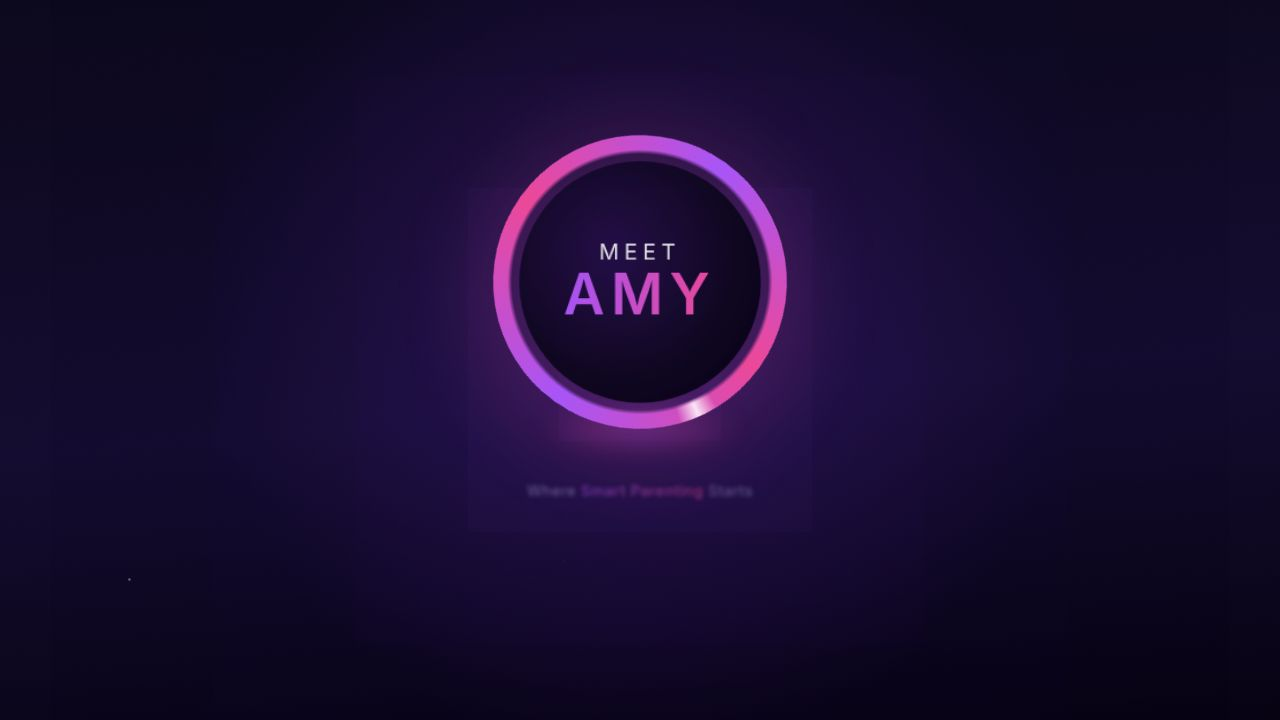
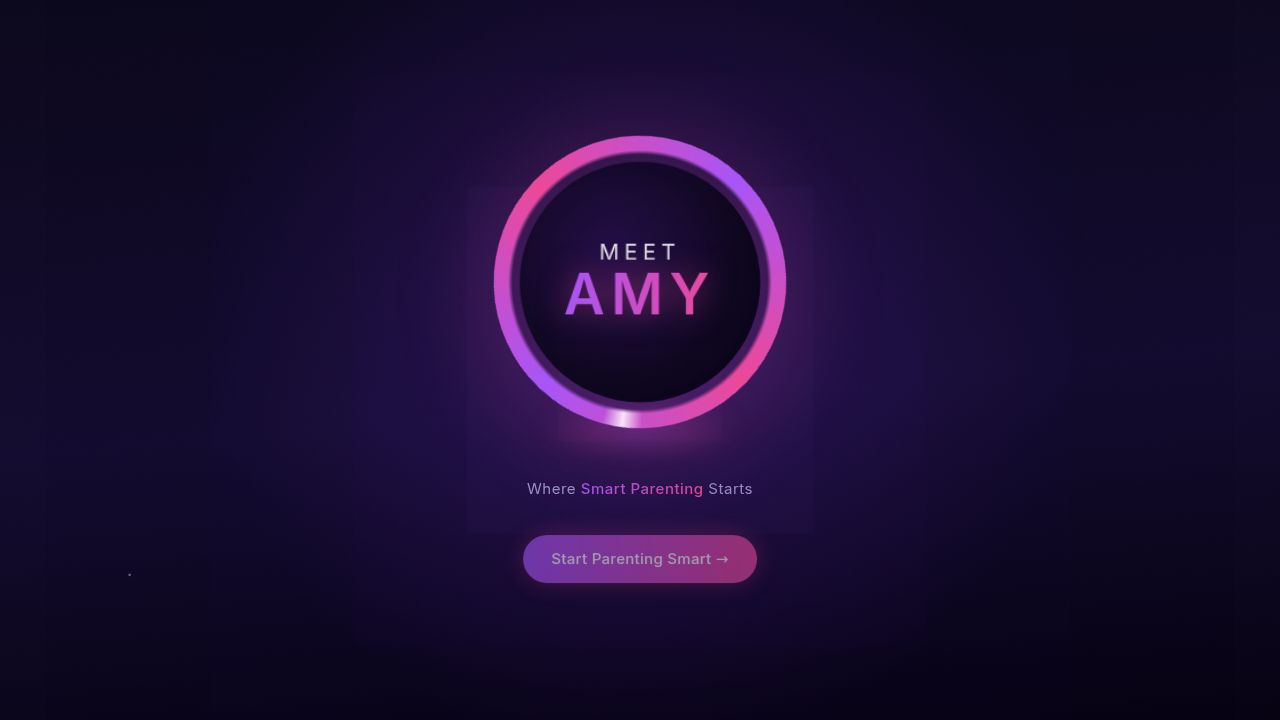
Add first-time onboarding walkthrough + confirm Smart Study Zone v2 complete
## Onboarding Walkthrough (tester request)
- New component: artifacts/kidschedule/src/components/app-walkthrough.tsx
  - 5-step animated overlay tour shown once after first dashboard visit
  - Step 1: Welcome (Amy mascot), Step 2: Routines, Step 3: Parenting Hub,
    Step 4: Amy AI Coach, Step 5: Track Progress
  - localStorage key `amynest_walkthrough_seen` — never shown again after skip/finish
  - Full-screen backdrop with glass card, brand indigo/purple gradients, progress dots
  - All text via t() keys, no hardcoded strings (passes i18n audit)
  - No hardcoded hex colors — uses CSS vars (passes color audit)
  - No third-party library — keeps iOS Safari memory budget safe
- Added "walkthrough" section to artifacts/kidschedule/src/i18n/en.json (27 new keys)
- Mounted <AppWalkthrough /> in artifacts/kidschedule/src/pages/dashboard.tsx

## Smart Study Zone v2 (session plan T001–T005)
- Verified ALL tasks were already fully implemented in the codebase:
  - T001: lib/study-zone levels.ts — adaptive 6-level age-band system, country
    localization, 6×6 math question dataset (1000+ unique), pickAdaptiveQuestions,
    bumpLevel all present
  - T002: DB schema child_learning_progress — currentLevel + seenQuestionIds
    columns already in schema
  - T003: /api/smart-study/next-questions — AI+dataset hybrid, anti-repetition,
    /attempt with seenQuestionIds tracking + bumpLevel — all implemented
  - T004: AdaptiveQuestionRunner component + study.tsx integration — all done
[…]

diff --git a/artifacts/kidschedule/src/components/app-walkthrough.tsx b/artifacts/kidschedule/src/components/app-walkthrough.tsx
@@ -1,0 +1,278 @@
+/**
+ * AppWalkthrough — first-time onboarding tour shown once after a new user
+ * completes the chat setup and lands on /dashboard for the first time.
+ *
+ * Renders a full-screen overlay with 5 steps that introduce the app's key
+ * features. Completion is persisted in localStorage so the tour never
+ * re-appears. No third-party tour library used — custom component keeps
+ * the bundle small (iOS Safari memory budget).
+ */
+
+import { useState, useEffect, useCallback } from "react";
+import { useTranslation } from "react-i18next";
+import { useLocation } from "wouter";
+import { motion, AnimatePresence } from "framer-motion";
+import { Calendar, BookOpen, Brain, TrendingUp, X, ArrowRight, Sparkles } from "lucide-react";
+import { Button } from "@/components/ui/button";
+import { AmyMascotLogo } from "@/components/amy-mascot-logo";
+
+const STORAGE_KEY = "amynest_walkthrough_seen";
+
+type StepId = 1 | 2 | 3 | 4 | 5;
+
+interface StepDef {
+  id: StepId;
+  icon: "amy" | "calendar" | "book" | "brain" | "trending";
+  titleKey: string;
+  descKey: string;
+  ctaKey: string;
+  href?: string;
+}
+
+const STEPS: StepDef[] = [
+  {
+    id: 1,
+    icon: "amy",
+    titleKey: "walkthrough.step1.title",
+    descKey: "walkthrough.step1.desc",
+    ctaKey: "walkthrough.next",
+  },
+  {
+    id: 2,
+    icon: "calendar",
+    titleKey: "walkthrough.step2.title",
+    descKey: "walkthrough.step2.desc",
+    ctaKey: "walkthrough.next",
+    href: "/routines",
+  },
+  {
+    id: 3,
+    icon: "book",
+    titleKey: "walkthrough.step3.title",
+    descKey: "walkthrough.step3.desc",
+    ctaKey: "walkthrough.next",
+    href: "/parenting-hub",
+  },
+  {
+    id: 4,
+    icon: "brain",
+    titleKey: "walkthrough.step4.title",
+    descKey: "walkthrough.step4.desc",
+    ctaKey: "walkthrough.next",
+    href: "/amy-coach",
+  },
+  {
+    id: 5,
+    icon: "trending",
+    titleKey: "walkthrough.step5.title",
+    descKey: "walkthrough.step5.desc",
+    ctaKey: "walkthrough.start_exploring",
+    href: "/progress",
+  },
+];
+
+// ─── Icon renderer ────────────────────────────────────────────────────────────
+
+function StepIcon({ icon }: { icon: StepDef["icon"] }) {
+  if (icon === "amy") {
+    return (
+      <div className="flex items-center justify-center">
+        <div
+          className="w-24 h-24 rounded-full flex items-center justify-center shadow-2xl"
+          style={{ background: "linear-gradient(135deg, hsl(var(--brand-indigo-500)), hsl(var(--brand-purple-500)))" }}
+        >
+          <AmyMascotLogo size={72} />
+        </div>
+      </div>
+    );
+  }
+  const icons = {
+    calendar: Calendar,
+    book:     BookOpen,
+    brain:    Brain,
+    trending: TrendingUp,
+  };
+  const Icon = icons[icon];
+  const gradients: Record<string, string> = {
+    calendar: "linear-gradient(135deg, hsl(var(--brand-indigo-500)), hsl(var(--brand-purple-500)))",
+    book:     "linear-gradient(135deg, hsl(var(--brand-purple-500)), hsl(var(--brand-pink-500)))",
+    brain:    "linear-gradient(135deg, hsl(var(--brand-indigo-500)), hsl(var(--brand-purple-500)))",
+    trending: "linear-gradient(135deg, hsl(var(--brand-indigo-500)), hsl(var(--brand-emerald-400)))",
+  };
+  return (
+    <div className="flex items-center justify-center">
+      <div
+        className="w-24 h-24 rounded-full flex items-center justify-center shadow-2xl"
+        style={{ background: gradients[icon] }}
+      >
+        <Icon className="h-11 w-11 text-white" />
+      </div>
+    </div>
+  );
+}
+
+// ─── Progress dots ────────────────────────────────────────────────────────────
+
+function ProgressDots({ current, total }: { current: number; total: number }) {
+  return (
+    <div className="flex items-center justify-center gap-2">
+      {Array.from({ length: total }, (_, i) => (
+        <div
+          key={i}
+          className="rounded-full transition-all duration-300"
+          style={{
+            width: i === current ? 20 : 8,
+            height: 8,
+            background: i === current
+              ? "linear-gradient(90deg, hsl(var(--brand-indigo-500)), hsl(var(--brand-purple-500)))"
+              : "rgba(255,255,255,0.25)",
+          }}
+        />
+      ))}
+    </div>
+  );
+}
+
+// ─── Main component ───────────────────────────────────────────────────────────
+
+export function AppWalkthrough() {
+  const { t } = useTranslation();
+  const [, navigate] = useLocation();
+  const [open, setOpen] = useState(false);
+  const [stepIdx, setStepIdx] = useState(0);
+
+  useEffect(() => {
+    const seen = localStorage.getItem(STORAGE_KEY);
+    if (!seen) setOpen(true);
+  }, []);
+
+  const dismiss = useCallback(() => {
+    localStorage.setItem(STORAGE_KEY, "true");
+    setOpen(false);
+  }, []);
+
+  const handleNext = useCallback(() => {
+    const step = STEPS[stepIdx];
+    if (!step) return;
+    const isLast = stepIdx === STEPS.length - 1;
+    if (isLast) {
+      dismiss();
+      if (step.href) navigate(step.href);
+    } else {
+      setStepIdx((i) => i + 1);
+    }
+  }, [stepIdx, dismiss, navigate]);
+
+  const step = STEPS[stepIdx];
+  if (!open || !step) return null;
+
+  return (
+    <AnimatePresence>
+      {open && (
+        // Full-screen backdrop
+        <motion.div
+          key="wt-backdrop"
+          initial={{ opacity: 0 }}
+          animate={{ opacity: 1 }}
+          exit={{ opacity: 0 }}
+          transition={{ duration: 0.25 }}
+          className="fixed inset-0 z-50 flex items-center justify-center p-4"
+          style={{ background: "rgba(5,3,18,0.82)", backdropFilter: "blur(8px)" }}
+          aria-modal="true"
+          role="dialog"
+          aria-label={t("walkthrough.aria_label")}
+        >
+          {/* Card */}
+          <motion.div
+            key={`wt-step-${stepIdx}`}
+            initial={{ opacity: 0, scale: 0.93, y: 18 }}
+            animate={{ opacity: 1, scale: 1, y: 0 }}
+            exit={{ opacity: 0, scale: 0.93, y: -18 }}
+            transition={{ duration: 0.3, ease: "easeOut" }}
+            className="relative w-full max-w-sm rounded-3xl overflow-hidden"
+            style={{
+              background: "rgba(15,10,46,0.97)",
+              border: "1px solid rgba(168,85,247,0.30)",
+              boxShadow: "0 24px 64px rgba(0,0,0,0.6), 0 0 0 1px rgba(99,102,241,0.12)",
+            }}
+          >
+            {/* Skip button */}
+            <button
+              type="button"
+              onClick={dismiss}
+              className="absolute top-4 right-4 z-10 rounded-full p-1.5 text-white/50 hover:text-white/90 hover:bg-white/10 transition-colors"
+              aria-label={t("walkthrough.skip")}
+            >
+              <X className="h-4 w-4" />
+            </button>
+
+            {/* Gradient top strip */}
+            <div
+              className="h-1.5 w-full"
+              style={{ background: "linear-gradient(90deg, hsl(var(--brand-indigo-500)), hsl(var(--brand-purple-500)))" }}
+            />
+
+            <div className="px-7 pt-8 pb-7 flex flex-col gap-6">
+
+              {/* Step counter */}
+              <div className="flex items-center justify-center">
+                <span
+                  className="text-xs font-bold uppercase tracking-widest px-3 py-1 rounded-full"
+                  style={{ background: "rgba(99,102,241,0.18)", color: "hsl(var(--brand-indigo-400))" }}
+                >
+                  {t("walkthrough.step_of", { current: stepIdx + 1, total: STEPS.length })}
+                </span>
+              </div>
+
+              {/* Icon */}
+              <StepIcon icon={step.icon} />
+
+              {/* Text */}
+              <div className="text-center flex flex-col gap-2.5">
+                <h2 className="font-quicksand text-2xl font-black text-white leading-tight">
+                  {t(step.titleKey)}
+                </h2>
+                <p className="text-sm leading-relaxed" style={{ color: "rgba(255,255,255,0.72)" }}>
+                  {t(step.descKey)}
+                </p>
+              </div>
+
+              {/* Progress dots */}
+              <ProgressDots current={stepIdx} total={STEPS.length} />
+
+              {/* Actions */}
+              <div className="flex flex-col gap-2">
+                <button
+                  type="button"
+                  onClick={handleNext}
+                  className="w-full h-12 rounded-2xl font-black text-sm text-white flex items-center justify-center gap-2 transition-all hover:scale-[1.02] active:scale-[0.98]"
+                  style={{
+                    background: "linear-gradient(135deg, hsl(var(--brand-indigo-500)), hsl(var(--brand-purple-500)))",
+                    boxShadow: "0 4px 20px rgba(99,102,241,0.4)",
+                  }}
+                >
+                  {stepIdx === STEPS.length - 1
+                    ? <><Sparkles className="h-4 w-4" />{t(step.ctaKey)}</>
+                    : <>{t(step.ctaKey)}<ArrowRight className="h-4 w-4" /></>
+                  }
+                </button>
+
+                {stepIdx < STEPS.length - 1 && (
+                  <button
+                    type="button"
+                    onClick={dismiss}
+                    className="w-full h-10 rounded-2xl text-xs font-semibold transition-colors hover:bg-white/5"
+                    style={{ color: "rgba(255,255,255,0.45)" }}
+                  >
+                    {t("walkthrough.skip")}
+                  </button>
+                )}
+              </div>
+
+            </div>
+          </motion.div>
+        </motion.div>
+      )}
+    </AnimatePresence>
+  );
+}

diff --git a/artifacts/kidschedule/src/pages/dashboard.tsx b/artifacts/kidschedule/src/pages/dashboard.tsx
@@ -12,6 +12,7 @@ import { useAuthFetch } from "@/hooks/use-auth-fetch";
 import { useSubscription } from "@/hooks/use-subscription";
 import { usePaywall } from "@/contexts/paywall-context";
 import { getTotalPoints, getBadges, getRewards, redeemReward, type Reward } from "@/lib/rewards";
+import { AppWalkthrough } from "@/components/app-walkthrough";
 const POLL_INTERVAL_MS = 30_000;
 type RoutineItem = {
   time: string;
@@ -840,6 +841,7 @@ export default function Dashboard() {
     // audit-block-ignore-start
     <div data-on-dark className="-mx-4 md:-mx-8 -mt-4 md:-mt-8 -mb-20 md:-mb-8 px-4 md:px-8 pt-4 md:pt-8 pb-24 md:pb-12 bg-[#0a1024] min-h-[calc(100vh-2rem)]">
       {/* audit-block-ignore-end */}
+      <AppWalkthrough />
       <div className="flex flex-col gap-5 animate-in fade-in duration-400 pb-8">
 
       {/* ── Hero Greeting ───────────────────────────────────────── */}